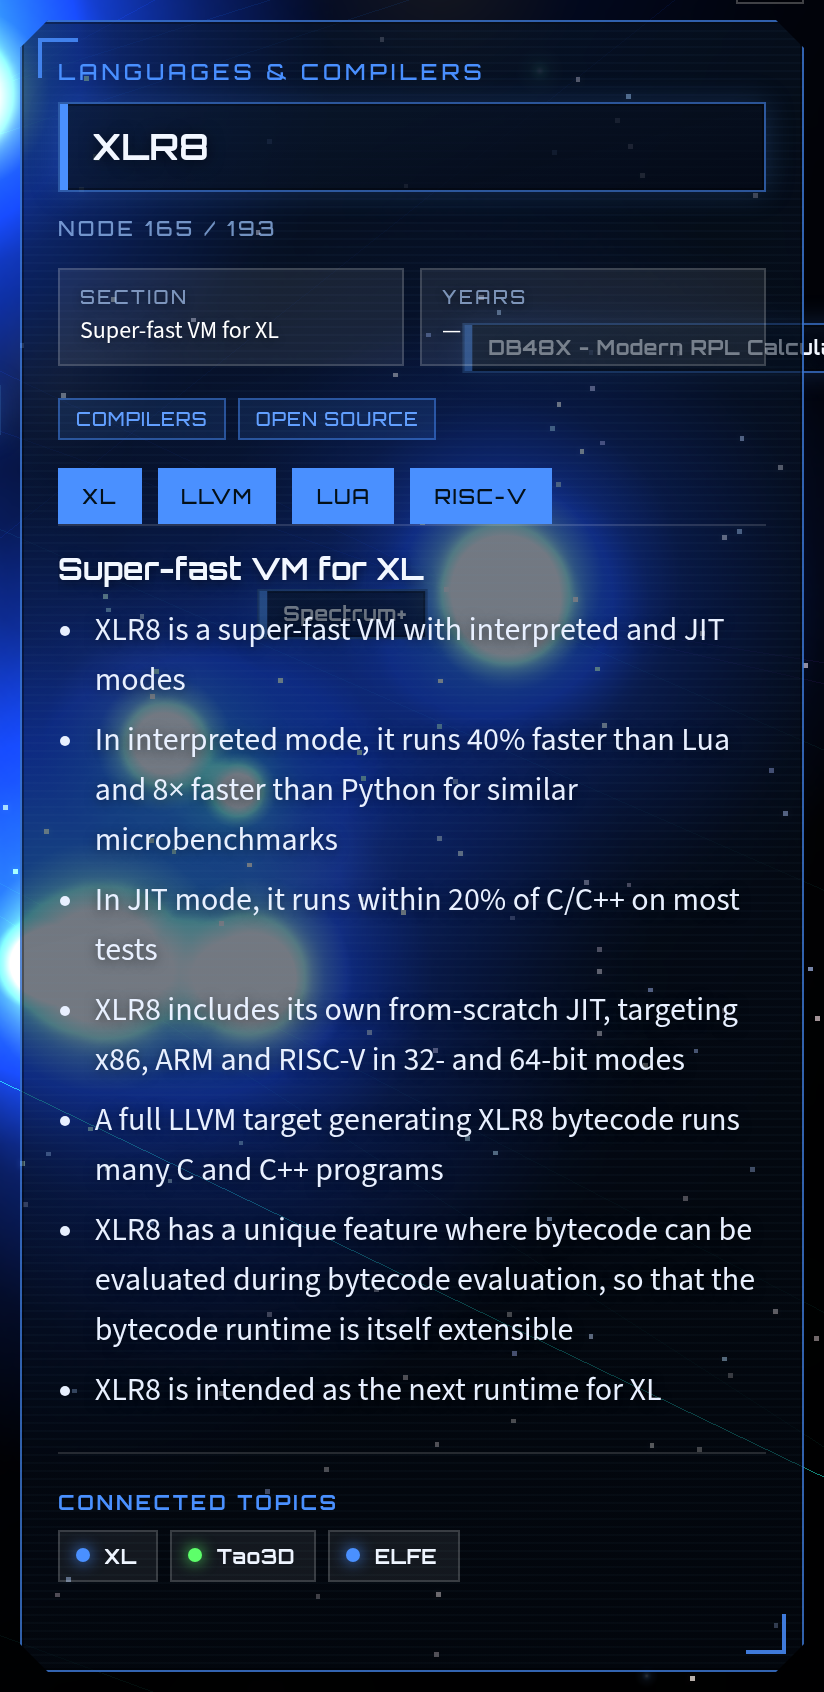
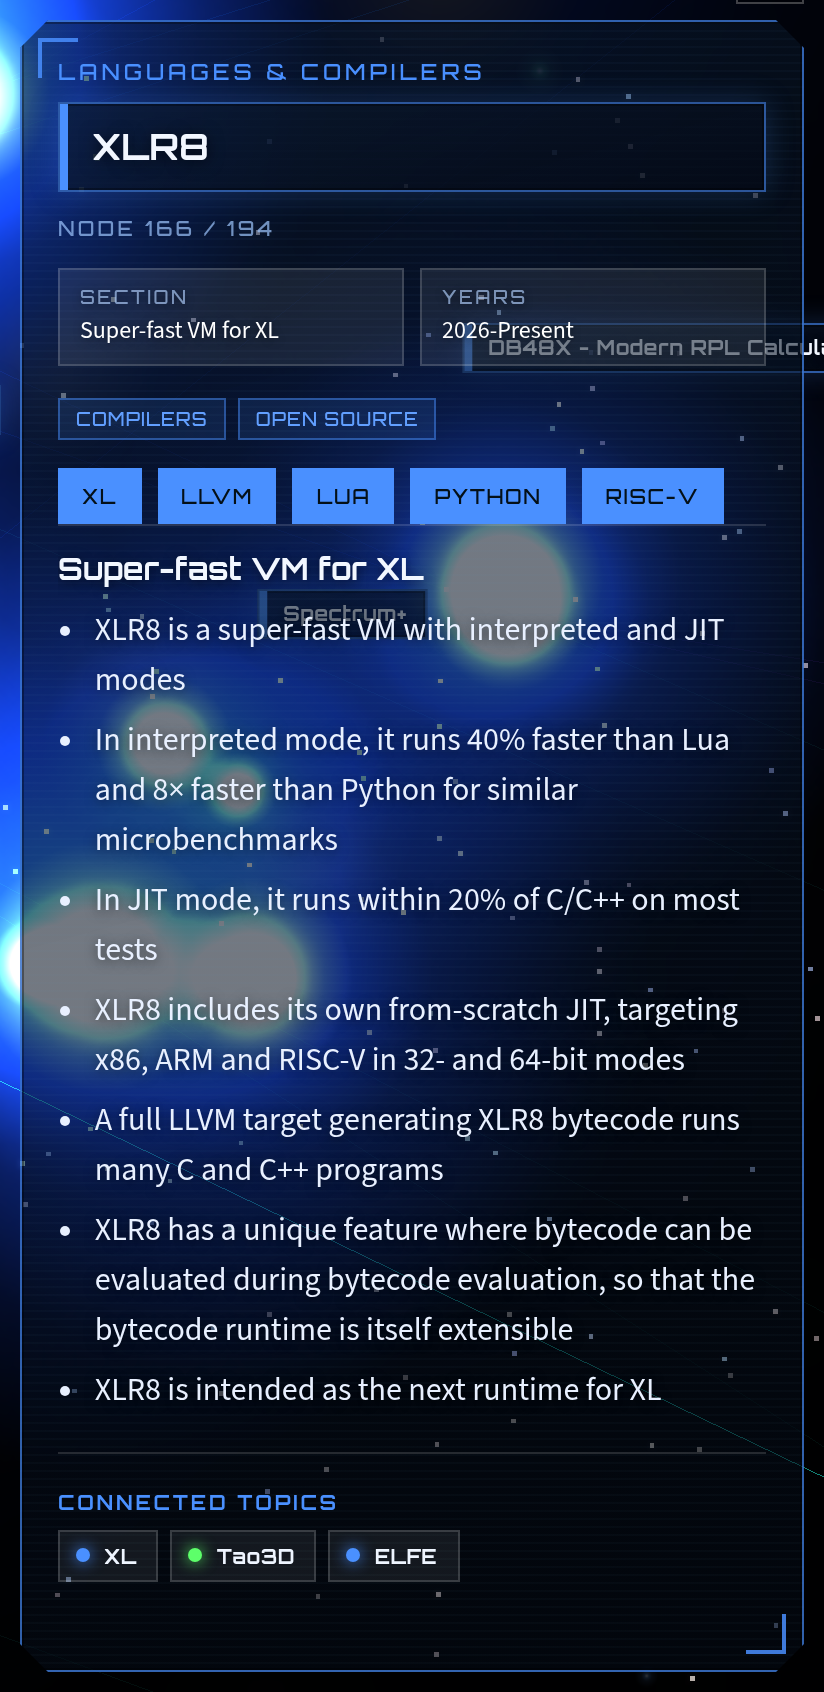
Add Python link to XLR8 entry and refresh HUD screenshot

diff --git a/cv-source/content/xlr8.md b/cv-source/content/xlr8.md
@@ -17,6 +17,8 @@ links:
     url: 'https://llvm.org'
   - label: Lua
     url: 'https://www.lua.org'
+  - label: Python
+    url: 'https://www.python.org'
   - label: RISC-V
     url: 'https://riscv.org'
 topics:
